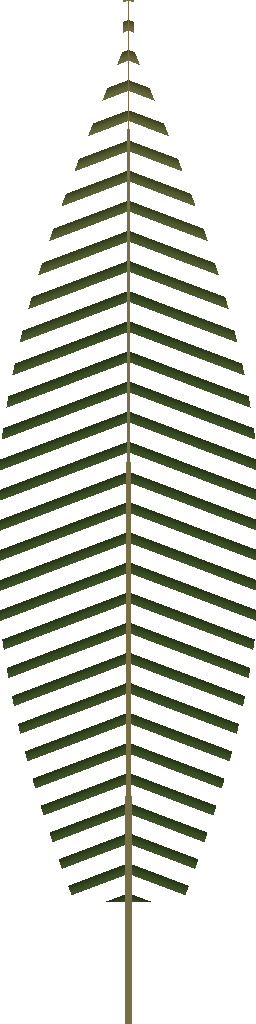
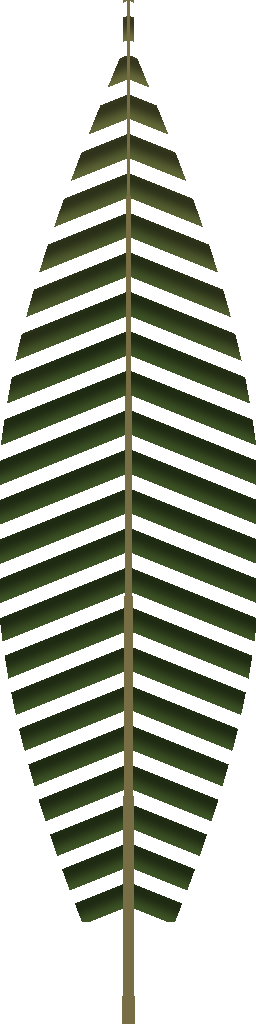
Frontline: rebalance enemy aim, add suppression, lighting and viewmodel polish
- Enemy accuracy settles over time while tracking; near misses from the
  player suppress enemies; lower per-difficulty damage
- Rooftop shooters moved to roof edges so they can engage the street
- Warmer bounce light, sand/plaster tints, lower exposure, no bloom
- Matte anodized rifle finish, darker sleeves, fuller palm fronds

Claude-Session: https://claude.ai/code/session_017kaYuabk7JKLjVdJiy8FQv

diff --git a/frontline/engine.js b/frontline/engine.js
@@ -27,7 +27,7 @@ export class Engine {
     this.renderer.setSize(window.innerWidth, window.innerHeight);
     this.renderer.outputColorSpace = THREE.SRGBColorSpace;
     this.renderer.toneMapping = THREE.ACESFilmicToneMapping;
-    this.renderer.toneMappingExposure = 0.82;
+    this.renderer.toneMappingExposure = 0.74;
     this.renderer.shadowMap.enabled = true;
     this.renderer.shadowMap.type = THREE.PCFShadowMap;
     this.renderer.autoClear = false;
@@ -81,9 +81,9 @@ export class Engine {
     envScene.add(ground);
     this.envMap = pmrem.fromScene(envScene, 0.02).texture;
     this.scene.environment = this.envMap;
-    this.scene.environmentIntensity = 0.42;
+    this.scene.environmentIntensity = 0.32;
     this.vmScene.environment = this.envMap;
-    this.vmScene.environmentIntensity = 0.4;
+    this.vmScene.environmentIntensity = 0.28;
     pmrem.dispose();
 
     // Dusty haze that fades distant terrain into the horizon.
@@ -103,14 +103,14 @@ export class Engine {
     sun.shadow.radius = 2;
     this.scene.add(sun, sun.target);
     this.sun = sun;
-    const hemi = new THREE.HemisphereLight(0xa9c2e6, 0x7a5c3e, 0.35);
+    const hemi = new THREE.HemisphereLight(0xb9c6d6, 0x9a7650, 0.55);
     this.scene.add(hemi);
 
     // viewmodel lights mirror the world lights (no shadows)
     const vmSun = new THREE.DirectionalLight(0xffdcb4, 2.0);
     this.vmScene.add(vmSun, vmSun.target);
     this.vmSun = vmSun;
-    this.vmScene.add(new THREE.HemisphereLight(0xa9c2e6, 0x7a5c3e, 0.45));
+    this.vmScene.add(new THREE.HemisphereLight(0xb9c6d6, 0x9a7650, 0.55));
     // muzzle flash light for the viewmodel
     this.vmFlash = new THREE.PointLight(0xffb060, 0, 3, 2);
     this.vmScene.add(this.vmFlash);

diff --git a/frontline/main.js b/frontline/main.js
@@ -19,13 +19,13 @@ const SPAWNS = [
   { x: 3.8, z: 47.5, yaw: -PI / 2 },
   { x: -4.5, z: 47.8, yaw: PI / 2 },
   { x: -12, z: 48, path: [[-12, 48], [-12, 33], [-28, 33], [-28, 49]] },
-  { x: 22, z: 38, y: 6.4, yaw: 0.3, static: true },
+  { x: 23, z: 36.4, y: 6.4, yaw: 0.5, static: true },
   { x: -24, z: 12, yaw: PI / 2 },
   { x: -36, z: -2, path: [[-36, -2], [30, -2.5], [30, -12], [-20, -12]] },
   { x: 47, z: 1, yaw: 0.2 },
   { x: 22, z: 5, yaw: PI / 2 },
   { x: 62, z: -62, y: 3.6, yaw: (3 * PI) / 4, static: true },
-  { x: 19, z: -30, y: 6.4, yaw: PI, static: true },
+  { x: 19, z: -25.9, y: 6.4, yaw: PI, static: true },
   { x: 18, z: -21.5, yaw: PI * 0.9 },
   { x: -4, z: -55, yaw: PI },
   { x: 3, z: -45, path: [[3, -45], [-10, -41], [-10, -37], [3, -38]] },

diff --git a/frontline/weapon.js b/frontline/weapon.js
@@ -332,11 +332,11 @@ export function styleRifleMaterials(root) {
       o.material = new THREE.MeshBasicMaterial({ color: 0xff2a12, toneMapped: false });
       o.renderOrder = 5;
     } else if (n === "Rifle_Anodized") {
-      Object.assign(o.material, { metalness: 0.25, roughness: 0.55, envMapIntensity: 0.6 });
+      Object.assign(o.material, { metalness: 0.15, roughness: 0.78, envMapIntensity: 0.35 });
     } else if (n === "Rifle_Steel") {
-      Object.assign(o.material, { metalness: 0.6, roughness: 0.45, envMapIntensity: 0.6 });
+      Object.assign(o.material, { metalness: 0.5, roughness: 0.55, envMapIntensity: 0.45 });
     } else if (n.startsWith("Rifle_")) {
-      o.material.envMapIntensity = 0.6;
+      o.material.envMapIntensity = 0.4;
     }
   });
 }

diff --git a/frontline/assets.js b/frontline/assets.js
@@ -59,9 +59,9 @@ export class Assets {
 
   _buildMaterials() {
     const M = this.materials;
-    M.sand = this.pbr("sand", { normal: 1.2 });
+    M.sand = this.pbr("sand", { normal: 1.2, color: 0xf4dcc0 });
     M.dirt = this.pbr("dirt", { normal: 1.2 });
-    M.plaster = this.pbr("plaster");
+    M.plaster = this.pbr("plaster", { color: 0xf6e2c6 });
     M.plasterInterior = this.pbr("plaster", { color: 0xb8ad9c });
     M.plasterInterior.envMapIntensity = 0.25;
     M.concrete = this.pbr("concrete", { color: 0xe6dccb });

diff --git a/tools/frontline/make_textures.py b/tools/frontline/make_textures.py
@@ -322,10 +322,10 @@ def palm_leaf():
     yy, xx = np.mgrid[0:hgt, 0:w]
     u = xx / w - 0.5
     v = 1 - yy / hgt  # 0 at base, 1 at tip
-    rachis = np.abs(u) < 0.012 * (1.2 - v)
+    rachis = np.abs(u) < 0.02 * (1.2 - v)
     # leaflets: thin stripes angled toward the tip
-    phase = (np.abs(u) * 3.2 + v * 34) % 1
-    leaflet = (phase < 0.36) & (np.abs(u) < 0.5 * np.sin(np.pi * np.clip(v * 1.05, 0, 1)) + 0.02) & (v > 0.12)
+    phase = (np.abs(u) * 2.6 + v * 26) % 1
+    leaflet = (phase < 0.62) & (np.abs(u) < 0.5 * np.sin(np.pi * np.clip(v * 1.05, 0, 1)) + 0.02) & (v > 0.1)
     shade = 0.75 + 0.25 * np.cos(phase * np.pi * 2)
     base = np.array([62, 84, 38]) / 255
     tip_dry = np.array([150, 132, 80]) / 255
